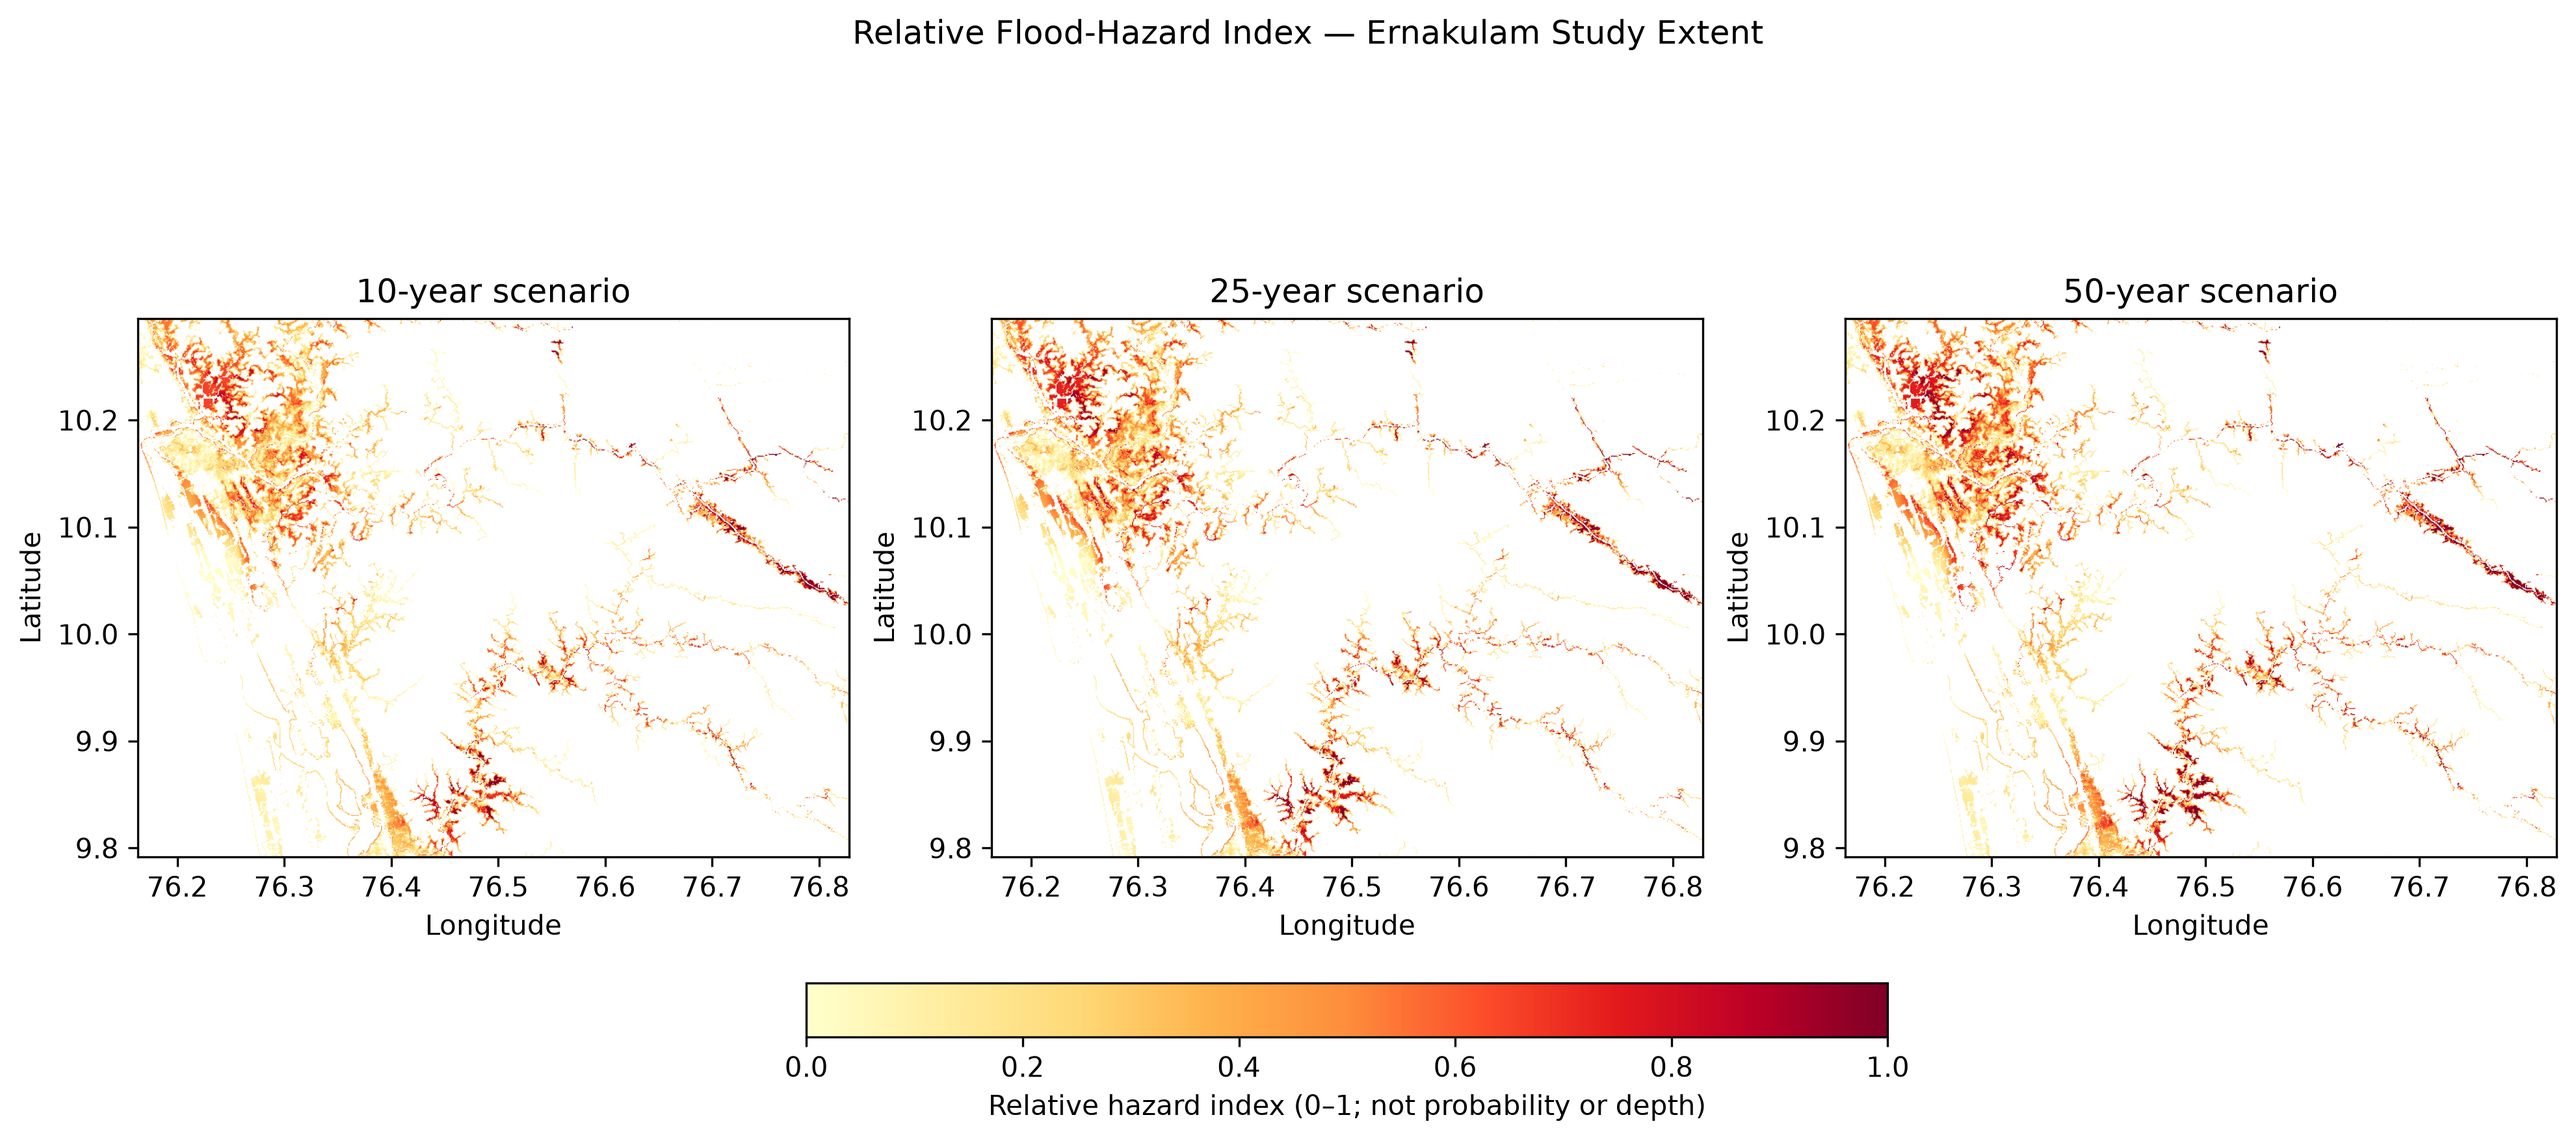
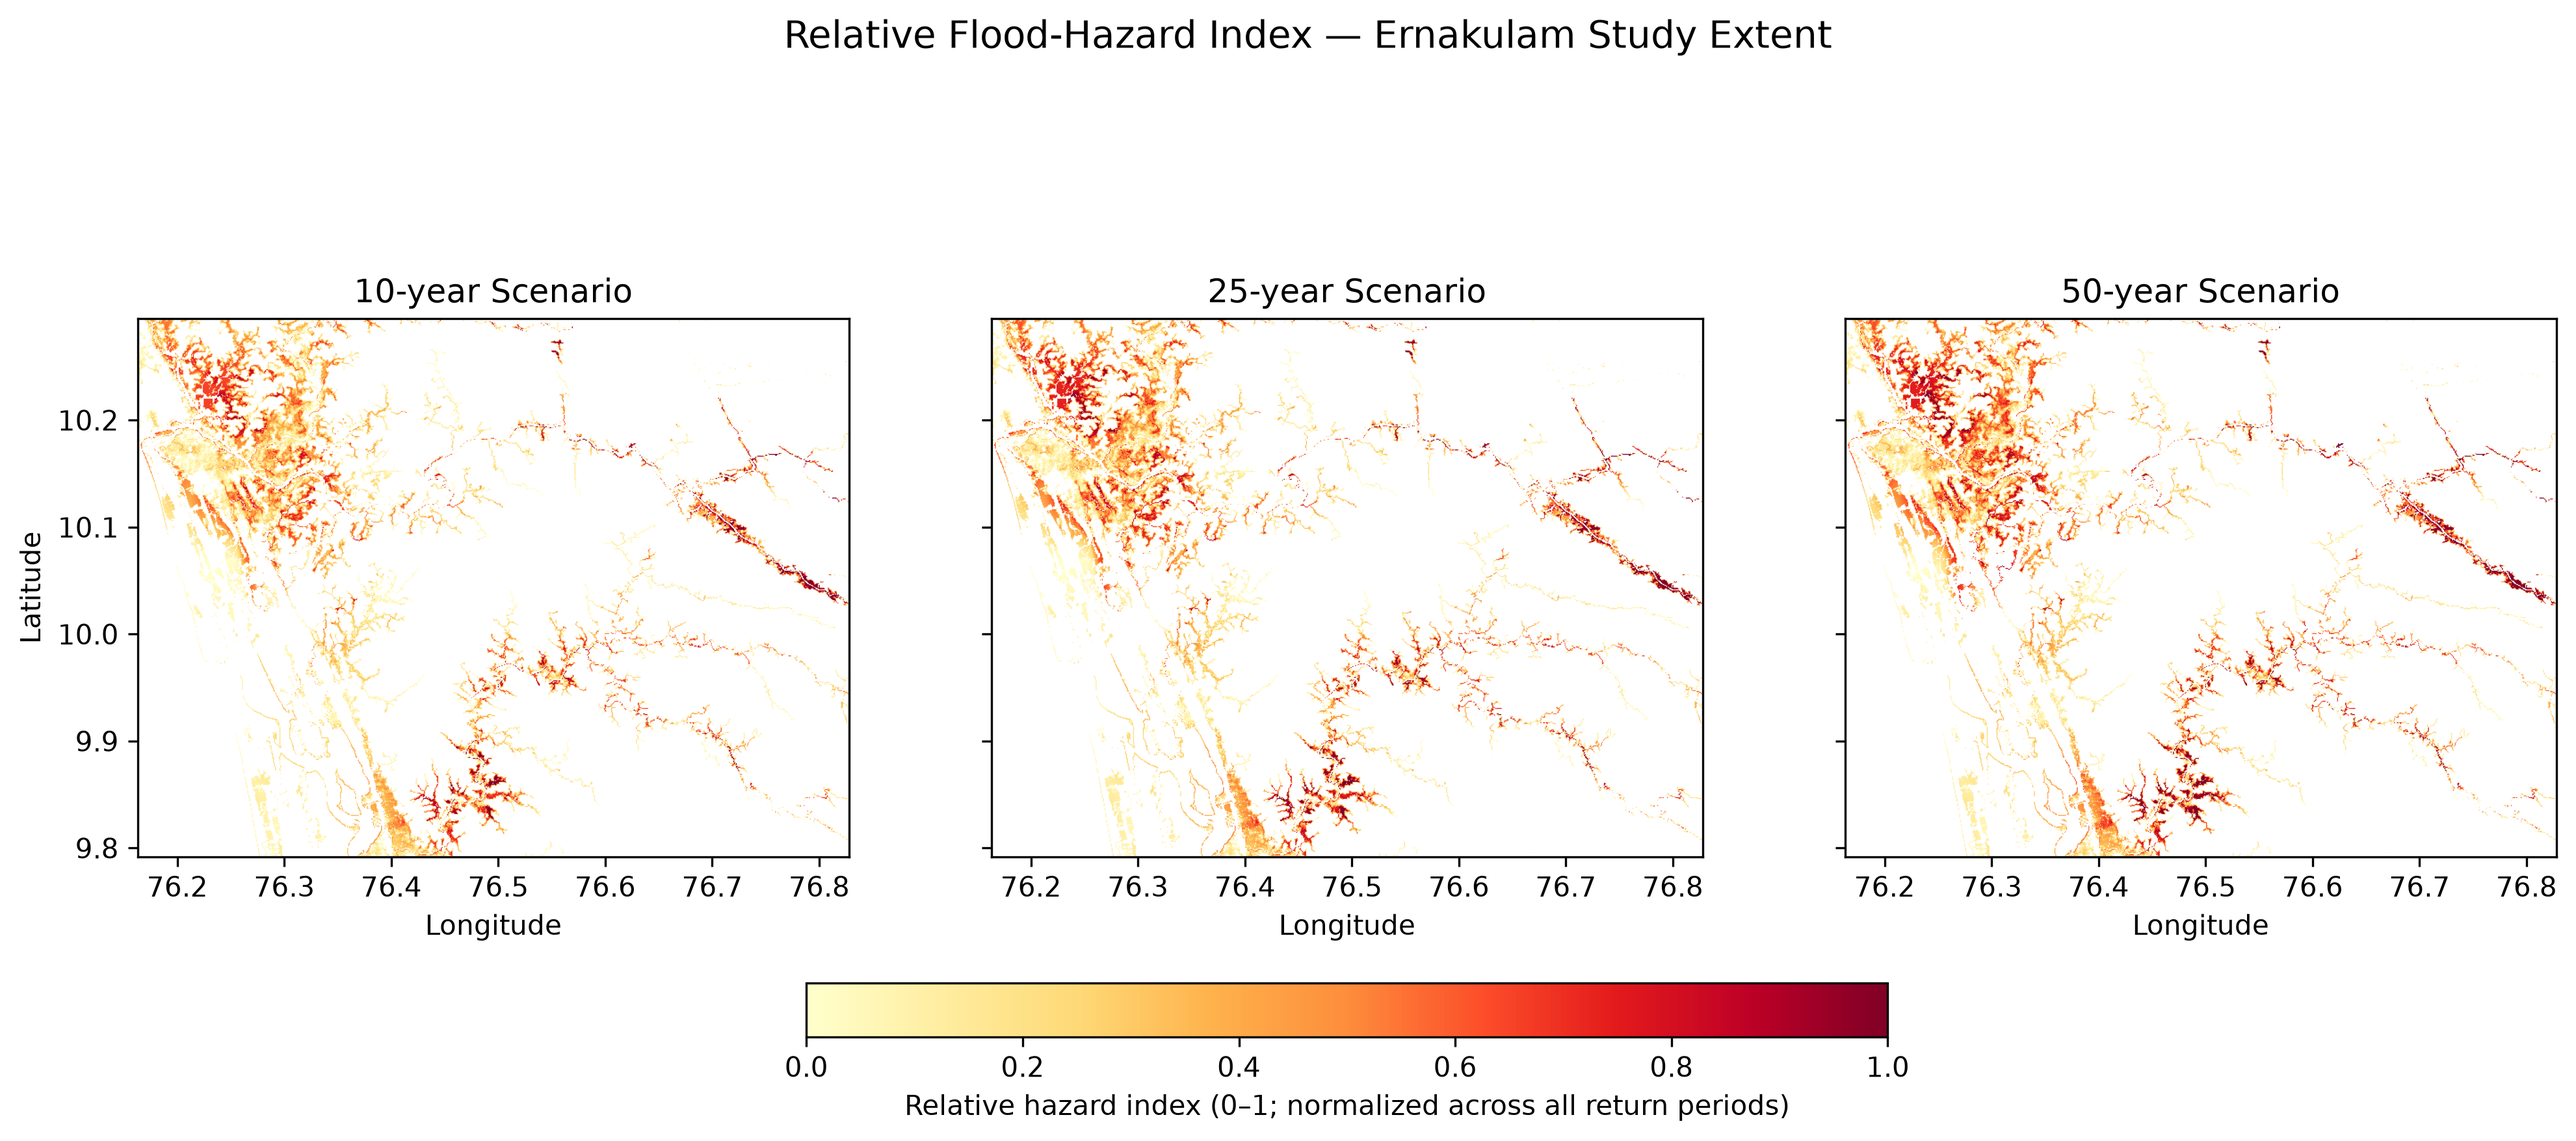
Scripts 8 and 13 are working . Correspoinding outputs are also stored respectively.

diff --git a/scripts/08_relative_hazard_index.py b/scripts/08_relative_hazard_index.py
@@ -1,9 +1,9 @@
-
 from pathlib import Path
 
+import matplotlib.pyplot as plt
 import numpy as np
 import rasterio
-import matplotlib.pyplot as plt
+from rasterio.plot import plotting_extent
 
 ROOT = Path(__file__).resolve().parents[1]
 DATA = ROOT / "data" / "processed"
@@ -22,44 +22,37 @@ transform = None
 
 for name, path in files.items():
     with rasterio.open(path) as src:
-        arrays[name] = src.read(1, masked=True).astype(
-            "float32"
-        ).filled(np.nan)
+        arrays[name] = src.read(1, masked=True).astype("float32").filled(np.nan)
 
         if profile is None:
             profile = src.profile.copy()
             transform = src.transform
+        elif (src.profile["width"], src.profile["height"]) != (profile["width"], profile["height"]):
+            raise ValueError(f"Raster dimensions for {name} do not match the base raster.")
 
 # Restrict analysis to pixels valid in all scenarios
-common_mask = np.logical_and.reduce([
-    np.isfinite(arr) for arr in arrays.values()
-])
+common_mask = np.logical_and.reduce([np.isfinite(arr) for arr in arrays.values()])
 
 if not common_mask.any():
-    raise ValueError("No common valid pixels found.")
+    raise ValueError("No common valid pixels found across scenarios.")
 
-pooled_values = np.concatenate([
-    arr[common_mask] for arr in arrays.values()
-])
+pooled_values = np.concatenate([arr[common_mask] for arr in arrays.values()])
 
 # Shared robust scaling limits across all scenarios
 lower, upper = np.percentile(pooled_values, [2, 98])
 
 if upper <= lower:
-    raise ValueError("Invalid scaling limits.")
+    raise ValueError(f"Invalid scaling limits: lower={lower}, upper={upper}")
 
 indices = {}
 
 for name, arr in arrays.items():
     index = np.full(arr.shape, np.nan, dtype=np.float32)
-
     scaled = (arr[common_mask] - lower) / (upper - lower)
-    index[common_mask] = np.clip(scaled, 0, 1)
-
+    index[common_mask] = np.clip(scaled, 0.0, 1.0)
     indices[name] = index
 
     output = DATA / f"relative_hazard_{name.replace('-', '')}.tif"
-
     out_profile = profile.copy()
     out_profile.update(
         dtype="float32",
@@ -76,14 +69,11 @@ for name, arr in arrays.items():
         f"median index={np.nanmedian(index):.3f}"
     )
 
-# Geographic coordinate extent
-height, width = next(iter(indices.values())).shape
-left = transform.c
-top = transform.f
-right = left + width * transform.a
-bottom = top + height * transform.e
+# Compute bounds safely for plotting
+sample_arr = next(iter(indices.values()))
+extent = plotting_extent(sample_arr, transform)
 
-fig, axes = plt.subplots(1, 3, figsize=(16, 6))
+fig, axes = plt.subplots(1, 3, figsize=(16, 6), sharey=True)
 
 for ax, (name, index) in zip(axes, indices.items()):
     im = ax.imshow(
@@ -91,12 +81,13 @@ for ax, (name, index) in zip(axes, indices.items()):
         cmap="YlOrRd",
         vmin=0,
         vmax=1,
-        extent=[left, right, bottom, top],
+        extent=extent,
         origin="upper",
     )
-    ax.set_title(f"{name} scenario")
+    ax.set_title(f"{name} Scenario")
     ax.set_xlabel("Longitude")
-    ax.set_ylabel("Latitude")
+
+axes[0].set_ylabel("Latitude")
 
 fig.colorbar(
     im,
@@ -104,10 +95,10 @@ fig.colorbar(
     orientation="horizontal",
     fraction=0.06,
     pad=0.14,
-    label="Relative hazard index (0–1; not probability or depth)",
+    label="Relative hazard index (0–1; normalized across all return periods)",
 )
 
-fig.suptitle("Relative Flood-Hazard Index — Ernakulam Study Extent")
+fig.suptitle("Relative Flood-Hazard Index — Ernakulam Study Extent", fontsize=14)
 
 plt.savefig(
     MAPS / "relative_hazard_index.png",
@@ -117,5 +108,4 @@ plt.savefig(
 plt.close()
 
 print("\nSaved relative hazard rasters and map.")
-print("Scaling limits:", lower, "to", upper)
-print("Note: This is a relative index, not a calibrated flood probability.")
+print(f"Scaling limits: {lower:.3f} to {upper:.3f}")
